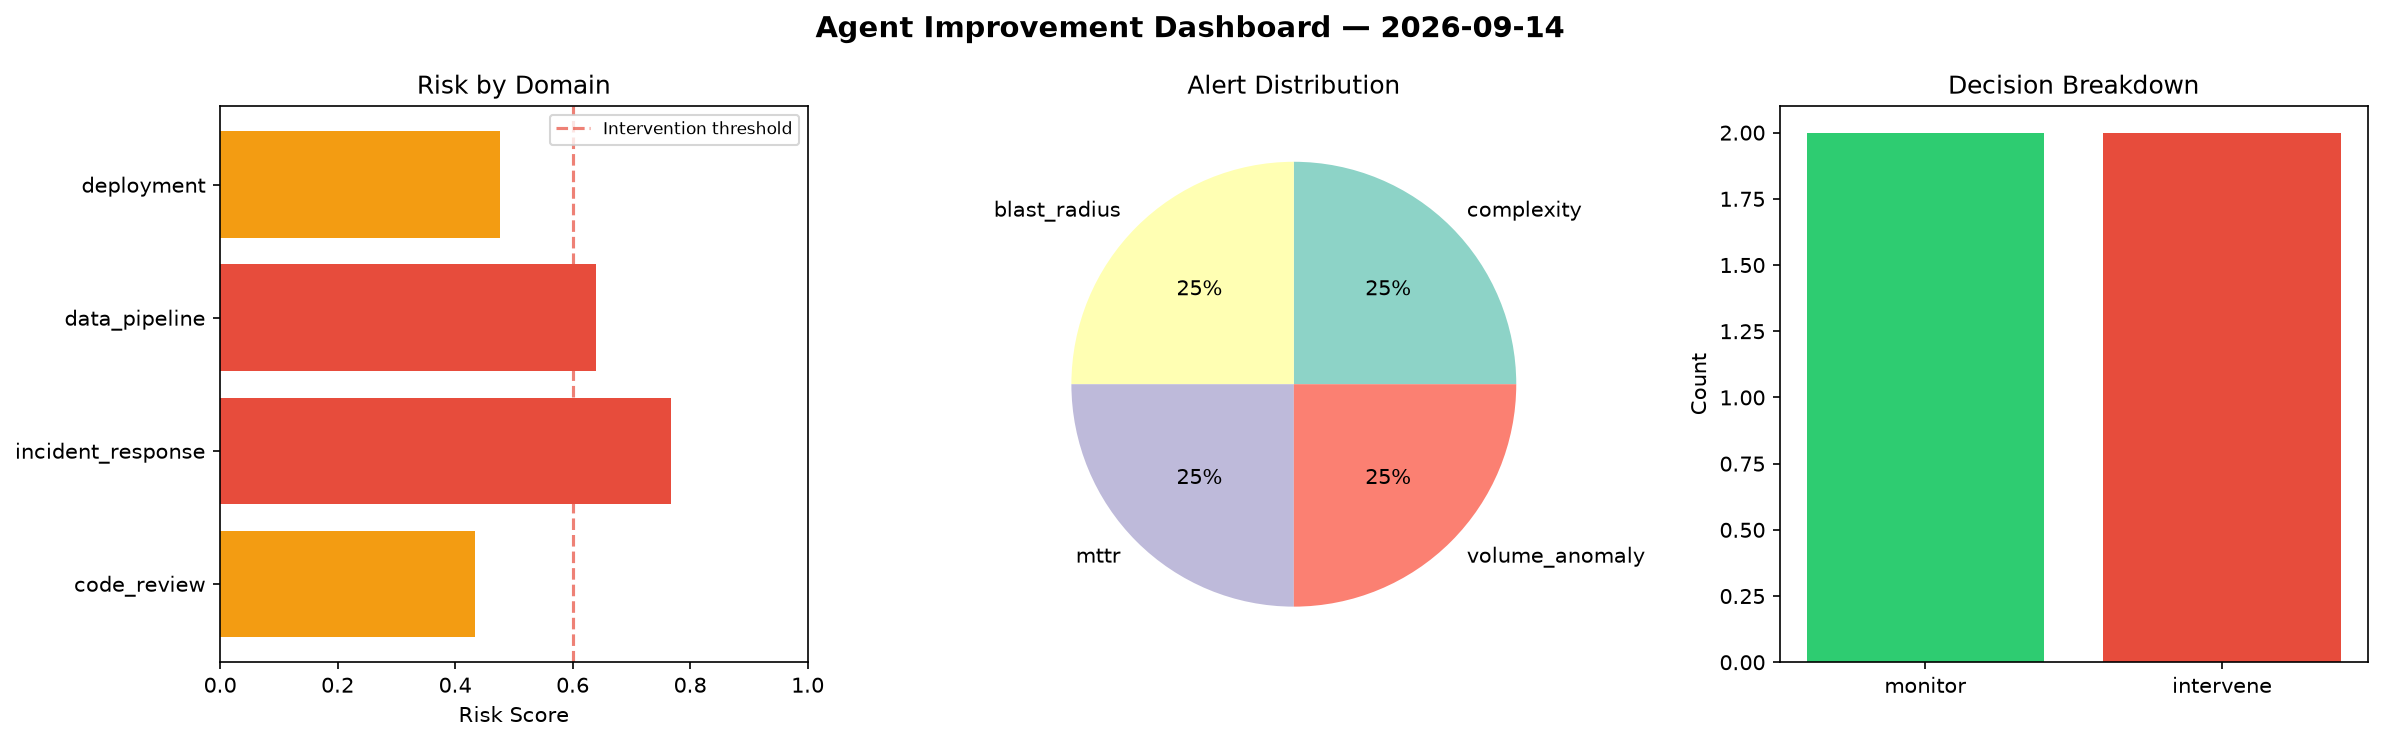
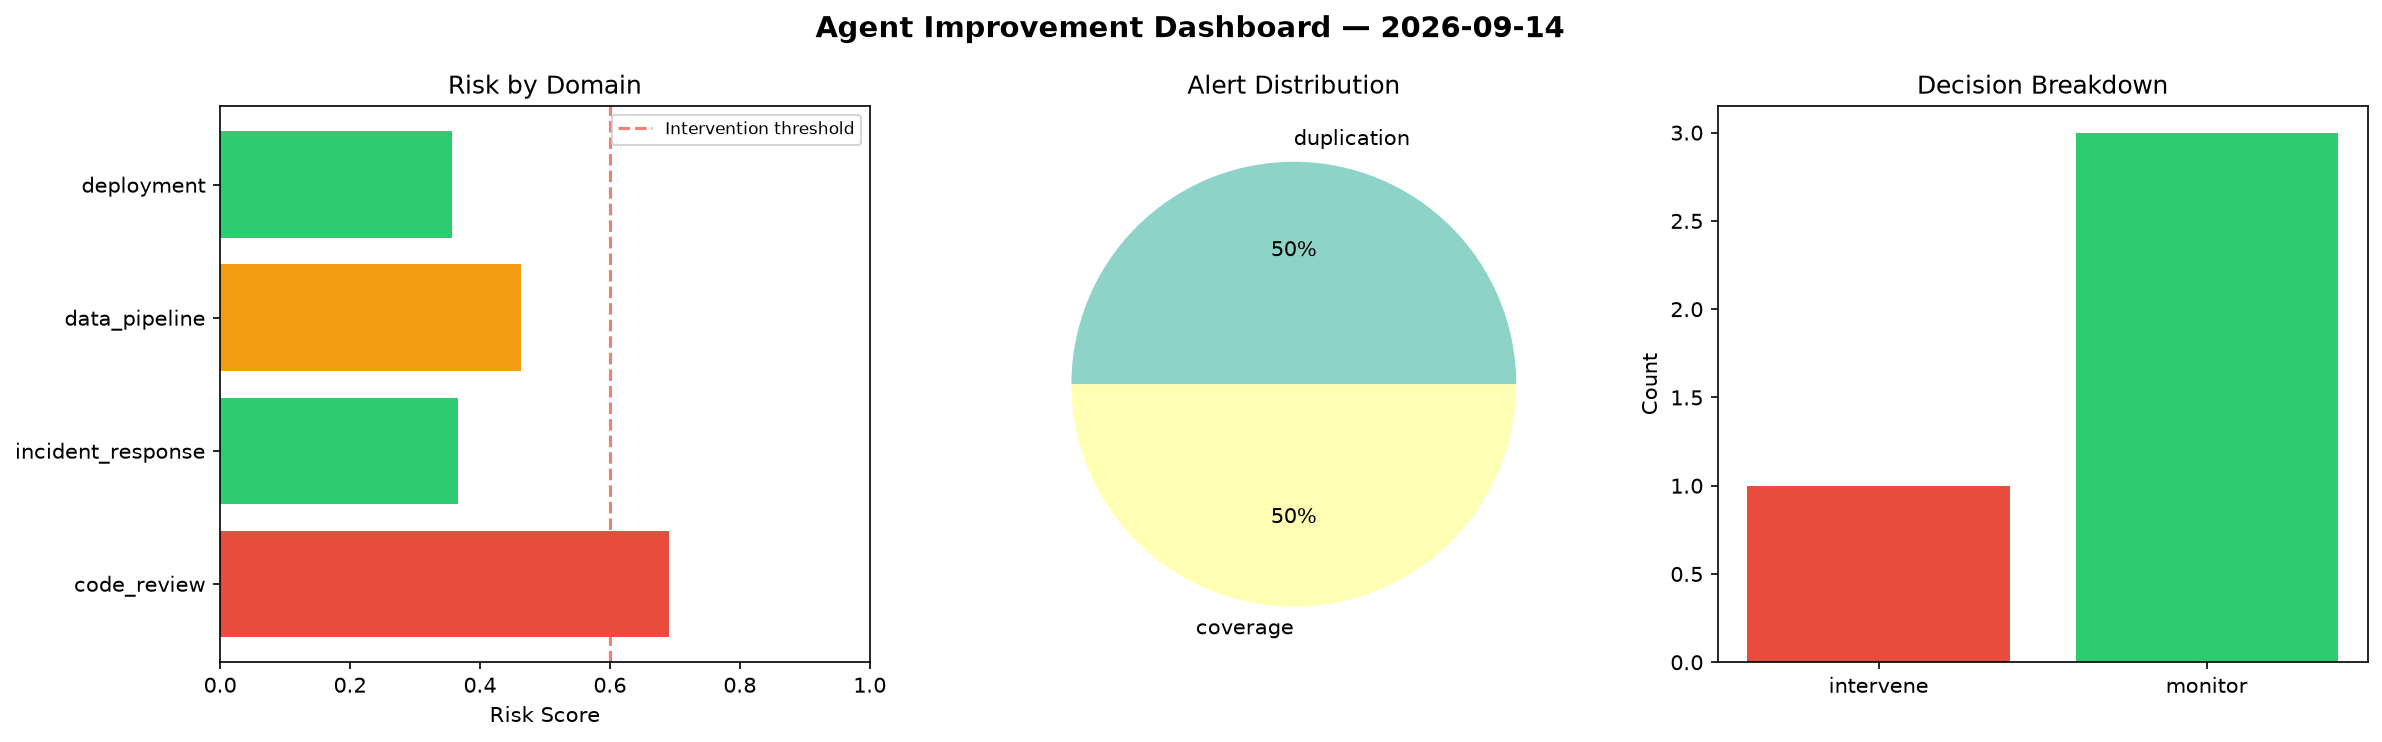
agent-improvement: daily cycle 2026-09-14T19:22

diff --git a/logs/2026-09-14.md b/logs/2026-09-14.md
@@ -1,6 +1,6 @@
 # Agent Improvement Report — 2026-09-14
 
-**Cycle ID:** `7e06d571` | **Avg Risk:** 0.5792 | **Interventions:** 2/4
+**Cycle ID:** `1e309a93` | **Avg Risk:** 0.4693 | **Interventions:** 1/4
 
 ![Dashboard](2026-09-14_dashboard.png)
 
@@ -10,18 +10,18 @@
 
 | Domain | Risk Score | Decision | Alerts |
 |--------|-----------|----------|--------|
-| code_review | 0.4338 | monitor | complexity |
-| incident_response | 0.7666 | intervene | blast_radius, mttr |
-| data_pipeline | 0.6393 | intervene | volume_anomaly |
-| deployment | 0.4771 | monitor | none |
+| code_review | 0.6908 | intervene | duplication, coverage |
+| incident_response | 0.3667 | monitor | none |
+| data_pipeline | 0.4633 | monitor | none |
+| deployment | 0.3563 | monitor | none |
 
 ## Delta vs Yesterday
 
 | Domain | Today | Yesterday | Change |
 |--------|-------|-----------|--------|
-| code_review | 0.4338 | 0.7668 | 📉 -43.4% |
-| incident_response | 0.7666 | 0.5466 | 📈 40.2% |
-| data_pipeline | 0.6393 | 0.7741 | 📉 -17.4% |
-| deployment | 0.4771 | 0.4505 | 📈 5.9% |
+| code_review | 0.6908 | 0.7668 | 📉 -9.9% |
+| incident_response | 0.3667 | 0.5466 | 📉 -32.9% |
+| data_pipeline | 0.4633 | 0.7741 | 📉 -40.1% |
+| deployment | 0.3563 | 0.4505 | 📉 -20.9% |
 
-**Refinement:** `{'adjustment': 'tighten_thresholds', 'trend': 'degrading', 'window': 4}`
+**Refinement:** `{'adjustment': 'maintain', 'trend': 'improving', 'window': 4}`
